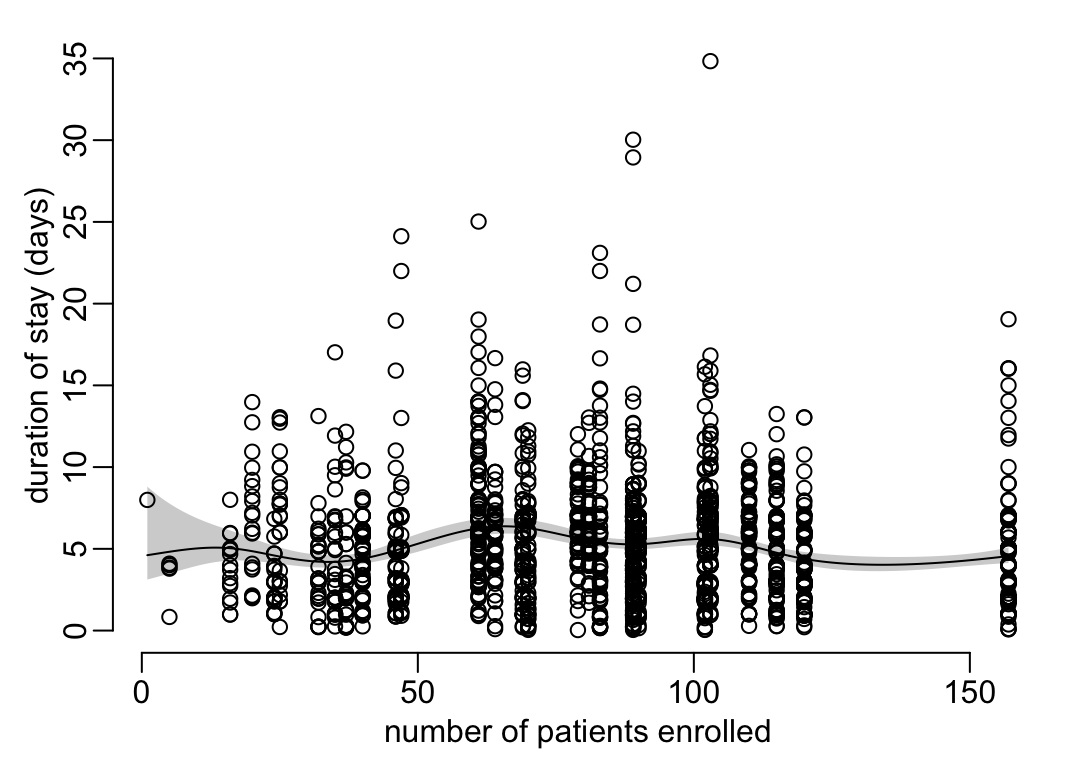
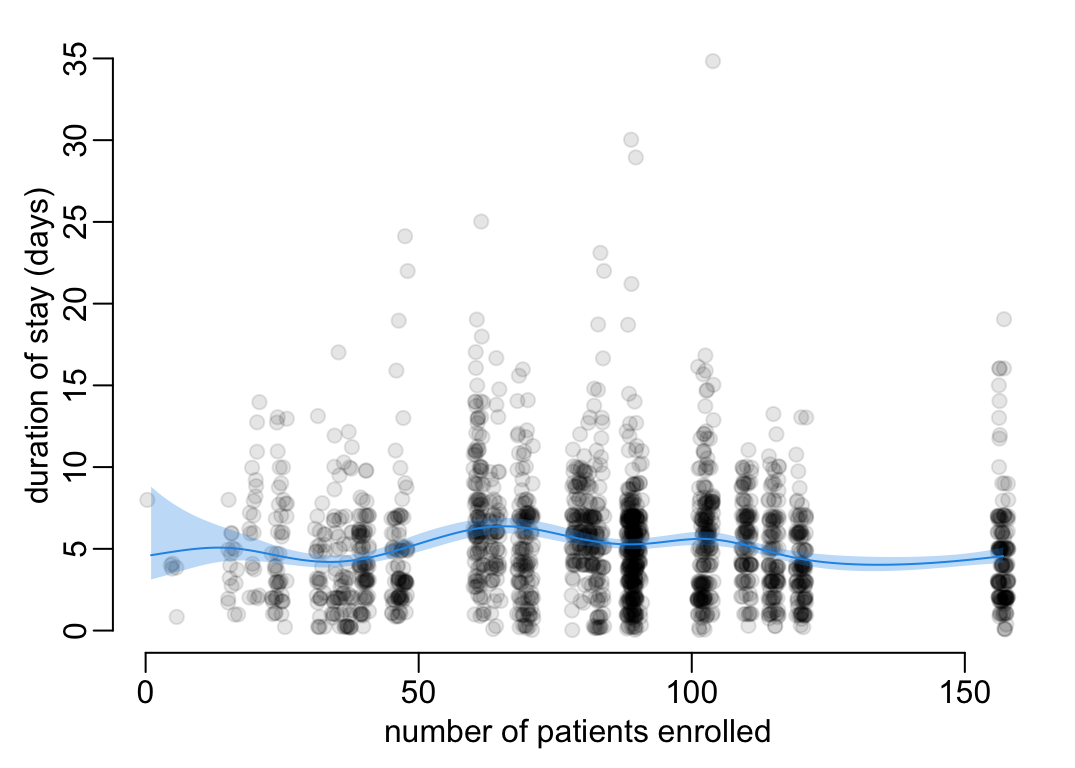
Finalizing the figure on the duration of stay and the number of patients enrolled.

diff --git a/analysis.html b/analysis.html
@@ -252,7 +252,9 @@ window.Quarto = {
 </div>
 <p>A tuning of the <code>polygon()</code> function:</p>
 <div class="cell" data-layout-align="center">
-<div class="sourceCode cell-code" id="cb14"><pre class="sourceCode r code-with-copy"><code class="sourceCode r"><span id="cb14-1"><a href="#cb14-1" aria-hidden="true" tabindex="-1"></a>polygon2 <span class="ot">&lt;-</span> <span class="cf">function</span>(x, y1, y2, ...) <span class="fu">polygon</span>(<span class="fu">c</span>(x, <span class="fu">rev</span>(x)), <span class="fu">c</span>(y1, <span class="fu">rev</span>(y2)), ...)</span></code><button title="Copy to Clipboard" class="code-copy-button"><i class="bi"></i></button></pre></div>
+<div class="sourceCode cell-code" id="cb14"><pre class="sourceCode r code-with-copy"><code class="sourceCode r"><span id="cb14-1"><a href="#cb14-1" aria-hidden="true" tabindex="-1"></a>polygon2 <span class="ot">&lt;-</span> <span class="cf">function</span>(x, y1, y2, <span class="at">border =</span> <span class="cn">NA</span>, ...) {</span>
+<span id="cb14-2"><a href="#cb14-2" aria-hidden="true" tabindex="-1"></a>  <span class="fu">polygon</span>(<span class="fu">c</span>(x, <span class="fu">rev</span>(x)), <span class="fu">c</span>(y1, <span class="fu">rev</span>(y2)), <span class="at">border =</span> border, ...)</span>
+<span id="cb14-3"><a href="#cb14-3" aria-hidden="true" tabindex="-1"></a>}</span></code><button title="Copy to Clipboard" class="code-copy-button"><i class="bi"></i></button></pre></div>
 </div>
 <p>Utility functions to convert coordinates to make a stairs plot style:</p>
 <div class="cell" data-layout-align="center">
@@ -665,25 +667,30 @@ Figure&nbsp;2: The distribution of the time spent in the ward.
 </div>
 <p>Let’s see whether there any trend on the duration of stay across wards:</p>
 <div class="cell" data-layout-align="center">
-<div class="sourceCode cell-code" id="cb52"><pre class="sourceCode r code-with-copy"><code class="sourceCode r"><span id="cb52-1"><a href="#cb52-1" aria-hidden="true" tabindex="-1"></a>tmp <span class="ot">&lt;-</span> ward_dates <span class="sc">|&gt;</span> </span>
+<div class="sourceCode cell-code" id="cb52"><pre class="sourceCode r code-with-copy"><code class="sourceCode r"><span id="cb52-1"><a href="#cb52-1" aria-hidden="true" tabindex="-1"></a>the_data <span class="ot">&lt;-</span> ward_dates <span class="sc">|&gt;</span> </span>
 <span id="cb52-2"><a href="#cb52-2" aria-hidden="true" tabindex="-1"></a>  <span class="fu">mutate</span>(<span class="at">duration =</span> <span class="fu">as.numeric</span>(DISCHARGE <span class="sc">-</span> ADMISSION) <span class="sc">/</span> mpd) <span class="sc">|&gt;</span> </span>
 <span id="cb52-3"><a href="#cb52-3" aria-hidden="true" tabindex="-1"></a>  <span class="fu">left_join</span>(nb_wards, <span class="st">"ward"</span>) <span class="sc">|&gt;</span> </span>
 <span id="cb52-4"><a href="#cb52-4" aria-hidden="true" tabindex="-1"></a>  <span class="fu">select</span>(n, duration)</span>
 <span id="cb52-5"><a href="#cb52-5" aria-hidden="true" tabindex="-1"></a></span>
-<span id="cb52-6"><a href="#cb52-6" aria-hidden="true" tabindex="-1"></a>aaa <span class="ot">&lt;-</span> <span class="fu">gam</span>(duration <span class="sc">~</span> <span class="fu">s</span>(n), Gamma, tmp, <span class="at">method =</span> <span class="st">"REML"</span>) <span class="sc">|&gt;</span> </span>
-<span id="cb52-7"><a href="#cb52-7" aria-hidden="true" tabindex="-1"></a>  <span class="fu">fitted_values</span>(<span class="fu">tibble</span>(<span class="at">n =</span> <span class="fu">seq</span>(<span class="fu">min</span>(tmp<span class="sc">$</span>n), <span class="fu">max</span>(tmp<span class="sc">$</span>n), <span class="at">le =</span> <span class="dv">512</span>)))</span>
+<span id="cb52-6"><a href="#cb52-6" aria-hidden="true" tabindex="-1"></a>the_model <span class="ot">&lt;-</span> <span class="fu">gam</span>(duration <span class="sc">~</span> <span class="fu">s</span>(n), Gamma, the_data, <span class="at">method =</span> <span class="st">"REML"</span>) <span class="sc">|&gt;</span> </span>
+<span id="cb52-7"><a href="#cb52-7" aria-hidden="true" tabindex="-1"></a>  <span class="fu">fitted_values</span>(<span class="fu">tibble</span>(<span class="at">n =</span> <span class="fu">seq</span>(<span class="fu">min</span>(the_data<span class="sc">$</span>n), <span class="fu">max</span>(the_data<span class="sc">$</span>n), <span class="at">le =</span> <span class="dv">512</span>)))</span>
 <span id="cb52-8"><a href="#cb52-8" aria-hidden="true" tabindex="-1"></a>  </span>
-<span id="cb52-9"><a href="#cb52-9" aria-hidden="true" tabindex="-1"></a><span class="fu">with</span>(tmp, <span class="fu">plot</span>(n, duration, <span class="at">type =</span> <span class="st">"n"</span>,</span>
-<span id="cb52-10"><a href="#cb52-10" aria-hidden="true" tabindex="-1"></a>               <span class="at">xlab =</span> <span class="st">"number of patients enrolled"</span>, <span class="at">ylab =</span> <span class="st">"duration of stay (days)"</span>))</span>
-<span id="cb52-11"><a href="#cb52-11" aria-hidden="true" tabindex="-1"></a><span class="fu">with</span>(aaa, {</span>
-<span id="cb52-12"><a href="#cb52-12" aria-hidden="true" tabindex="-1"></a>  <span class="fu">polygon2</span>(n, .lower_ci, .upper_ci, <span class="at">col =</span> <span class="st">"lightgrey"</span>, <span class="at">border =</span> <span class="cn">NA</span>)</span>
-<span id="cb52-13"><a href="#cb52-13" aria-hidden="true" tabindex="-1"></a>  <span class="fu">lines</span>(n, .fitted)</span>
-<span id="cb52-14"><a href="#cb52-14" aria-hidden="true" tabindex="-1"></a>})</span>
-<span id="cb52-15"><a href="#cb52-15" aria-hidden="true" tabindex="-1"></a><span class="fu">with</span>(tmp, <span class="fu">points</span>(n, duration))</span></code><button title="Copy to Clipboard" class="code-copy-button"><i class="bi"></i></button></pre></div>
+<span id="cb52-9"><a href="#cb52-9" aria-hidden="true" tabindex="-1"></a><span class="fu">with</span>(the_data, <span class="fu">plot</span>(<span class="fu">jitter</span>(n, <span class="dv">5</span>), duration, <span class="at">col =</span> <span class="fu">adjustcolor</span>(<span class="st">"black"</span>, .<span class="dv">1</span>), <span class="at">pch =</span> <span class="dv">19</span>,</span>
+<span id="cb52-10"><a href="#cb52-10" aria-hidden="true" tabindex="-1"></a>                    <span class="at">xlab =</span> <span class="st">"number of patients enrolled"</span>,</span>
+<span id="cb52-11"><a href="#cb52-11" aria-hidden="true" tabindex="-1"></a>                    <span class="at">ylab =</span> <span class="st">"duration of stay (days)"</span>))</span>
+<span id="cb52-12"><a href="#cb52-12" aria-hidden="true" tabindex="-1"></a><span class="fu">with</span>(the_model, {</span>
+<span id="cb52-13"><a href="#cb52-13" aria-hidden="true" tabindex="-1"></a>  <span class="fu">polygon2</span>(n, .lower_ci, .upper_ci, <span class="at">col =</span> <span class="fu">adjustcolor</span>(<span class="dv">4</span>, .<span class="dv">3</span>))</span>
+<span id="cb52-14"><a href="#cb52-14" aria-hidden="true" tabindex="-1"></a>  <span class="fu">lines</span>(n, .fitted, <span class="at">col =</span> <span class="dv">4</span>)</span>
+<span id="cb52-15"><a href="#cb52-15" aria-hidden="true" tabindex="-1"></a>})</span></code><button title="Copy to Clipboard" class="code-copy-button"><i class="bi"></i></button></pre></div>
 <div class="cell-output-display">
-<div class="quarto-figure quarto-figure-center">
-<figure class="figure">
-<p><img src="analysis_files/figure-html/duration_x_nb_patients-1.png" class="img-fluid quarto-figure quarto-figure-center figure-img" width="537"></p>
+<div id="fig-durations_nb_patients" class="quarto-float quarto-figure quarto-figure-center anchored" data-fig-align="center">
+<figure class="quarto-float quarto-float-fig figure">
+<div aria-describedby="fig-durations_nb_patients-caption-0ceaefa1-69ba-4598-a22c-09a6ac19f8ca">
+<img src="analysis_files/figure-html/fig-durations_nb_patients-1.png" class="img-fluid quarto-figure quarto-figure-center figure-img" width="537">
+</div>
+<figcaption class="quarto-float-caption-bottom quarto-float-caption quarto-float-fig" id="fig-durations_nb_patients-caption-0ceaefa1-69ba-4598-a22c-09a6ac19f8ca">
+Figure&nbsp;3: The duration of stay as a function of the number of patients enrolled across the wards.
+</figcaption>
 </figure>
 </div>
 </div>
@@ -833,7 +840,7 @@ Figure&nbsp;2: The distribution of the time spent in the ward.
 <img src="analysis_files/figure-html/fig-CREoccupancies-1.png" class="img-fluid quarto-figure quarto-figure-center figure-img" width="796">
 </div>
 <figcaption class="quarto-float-caption-bottom quarto-float-caption quarto-float-fig" id="fig-CREoccupancies-caption-0ceaefa1-69ba-4598-a22c-09a6ac19f8ca">
-Figure&nbsp;3: Number of enrolled patients with CRE at admission as a function of time for each ward.
+Figure&nbsp;4: Number of enrolled patients with CRE at admission as a function of time for each ward.
 </figcaption>
 </figure>
 </div>
@@ -848,7 +855,7 @@ Figure&nbsp;3: Number of enrolled patients with CRE at admission as a function o
 <span id="cb66-5"><a href="#cb66-5" aria-hidden="true" tabindex="-1"></a>    <span class="fu">duplicate_NA_rows</span>() <span class="sc">|&gt;</span> </span>
 <span id="cb66-6"><a href="#cb66-6" aria-hidden="true" tabindex="-1"></a>    <span class="fu">remove_NAs</span>(estimate) <span class="sc">|&gt;</span> </span>
 <span id="cb66-7"><a href="#cb66-7" aria-hidden="true" tabindex="-1"></a>    <span class="fu">map</span>(<span class="sc">~</span> <span class="fu">with</span>(.x, <span class="fu">polygon2</span>(<span class="fu">x_transform</span>(date), <span class="fu">y_transform</span>(lower), <span class="fu">y_transform</span>(upper),</span>
-<span id="cb66-8"><a href="#cb66-8" aria-hidden="true" tabindex="-1"></a>                            <span class="at">col =</span> <span class="st">"grey"</span>, <span class="at">border =</span> <span class="cn">NA</span>)))</span>
+<span id="cb66-8"><a href="#cb66-8" aria-hidden="true" tabindex="-1"></a>                            <span class="at">col =</span> <span class="st">"grey"</span>)))</span>
 <span id="cb66-9"><a href="#cb66-9" aria-hidden="true" tabindex="-1"></a>  <span class="fu">with</span>(x, <span class="fu">lines</span>(<span class="fu">x_transform</span>(date), <span class="fu">y_transform</span>(estimate)))</span>
 <span id="cb66-10"><a href="#cb66-10" aria-hidden="true" tabindex="-1"></a>}</span></code><button title="Copy to Clipboard" class="code-copy-button"><i class="bi"></i></button></pre></div>
 </div>
@@ -885,7 +892,7 @@ Figure&nbsp;3: Number of enrolled patients with CRE at admission as a function o
 <img src="analysis_files/figure-html/fig-CREprevalences-1.png" class="img-fluid quarto-figure quarto-figure-center figure-img" width="796">
 </div>
 <figcaption class="quarto-float-caption-bottom quarto-float-caption quarto-float-fig" id="fig-CREprevalences-caption-0ceaefa1-69ba-4598-a22c-09a6ac19f8ca">
-Figure&nbsp;4: Proportion of enrolled patients that are CRE positive at admission as a function of time for each ward.
+Figure&nbsp;5: Proportion of enrolled patients that are CRE positive at admission as a function of time for each ward.
 </figcaption>
 </figure>
 </div>
@@ -917,7 +924,7 @@ Figure&nbsp;4: Proportion of enrolled patients that are CRE positive at admissio
 <img src="analysis_files/figure-html/fig-Kp_occupancies-1.png" class="img-fluid quarto-figure quarto-figure-center figure-img" width="796">
 </div>
 <figcaption class="quarto-float-caption-bottom quarto-float-caption quarto-float-fig" id="fig-Kp_occupancies-caption-0ceaefa1-69ba-4598-a22c-09a6ac19f8ca">
-Figure&nbsp;5: Number of enrolled patients with CRE <em>K pneumonia</em> at admission as a function of time for each ward.
+Figure&nbsp;6: Number of enrolled patients with CRE <em>K pneumonia</em> at admission as a function of time for each ward.
 </figcaption>
 </figure>
 </div>
@@ -954,7 +961,7 @@ Figure&nbsp;5: Number of enrolled patients with CRE <em>K pneumonia</em> at admi
 <img src="analysis_files/figure-html/fig-Kp_prevalences-1.png" class="img-fluid quarto-figure quarto-figure-center figure-img" width="796">
 </div>
 <figcaption class="quarto-float-caption-bottom quarto-float-caption quarto-float-fig" id="fig-Kp_prevalences-caption-0ceaefa1-69ba-4598-a22c-09a6ac19f8ca">
-Figure&nbsp;6: Proportion of enrolled patients that are CRE <em>K. pneumoniae</em> positive at admission as a function of time for each ward.
+Figure&nbsp;7: Proportion of enrolled patients that are CRE <em>K. pneumoniae</em> positive at admission as a function of time for each ward.
 </figcaption>
 </figure>
 </div>
